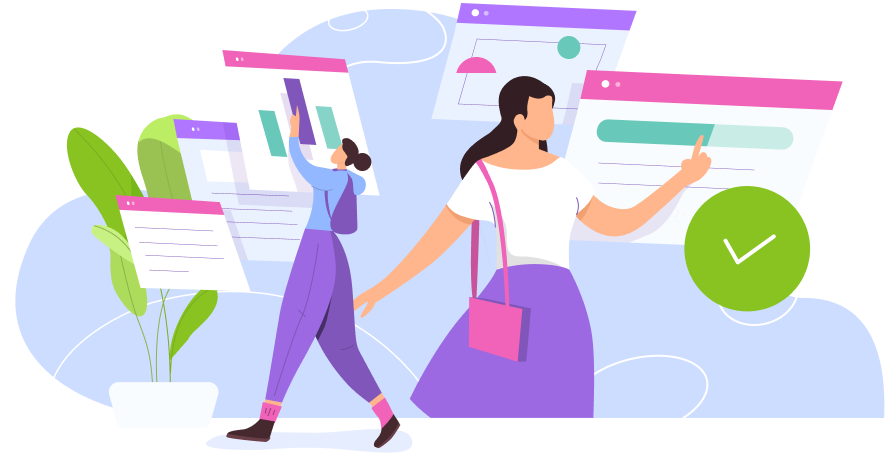
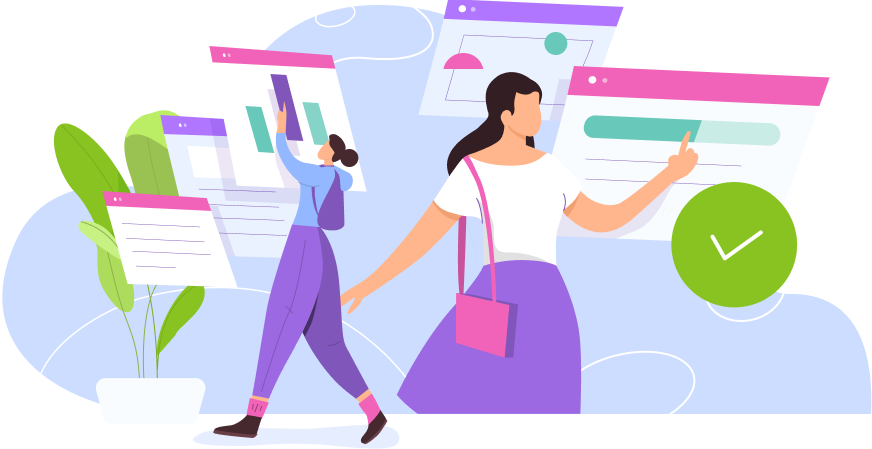
fix respon done

diff --git a/css/normalize.css b/css/normalize.css
@@ -135,9 +135,6 @@ button {
     padding-top: 161px;
     padding-bottom: 141px;
 }
-.text-data {
-    width: 60%;
-}
 /*responsive ui/ux moible max-width 768px*/
 /*to section */
 @media screen and (max-width: 768px) {
@@ -163,11 +160,7 @@ button {
 		justify-content: center;
 		align-items: center;
 	}
-	
-	.fea p.text-second {
-		width: 100%;
-		padding: 0;
-	}
+
 	div.carosoul {
 		padding: 20px 0 0 0;
 		/*flex-basis: 85%;*/
@@ -184,14 +177,18 @@ button {
     width: 41%;
     padding: 80px 0 60px 0;
 }
+.text-data {
+    width: 66%;
+}
 .image-data {
     background-image: url(../image/data.png);
 	background-repeat: no-repeat;
-	/*background-position: right bottom;*/
+	background-position: right bottom;
+	background-size: contain;
 	width: 80%;
 	height: 500px;
 	position: absolute;
-	right: -72px;
+	right: 0;
 	top: 36%;
 }
  h1.title {
@@ -225,8 +222,48 @@ p.first-text {
 	width: 25%;
 }
 /*responsive mobile section data max-width:  768px*/
-@media screen and (max-width:  768px)  {
-	.save-data {
+@media screen and (max-width:  768px){
+	div .save-data .image-data {
+		margin: auto;
+		left: 0%;
+		top: 23%;
+	}
+	.save-data .text-data .image-data {
+		width: 100%;
+		top: 76%;
+		background-size: contain;
+		left: 0;
+	}
+	p.first-text {
+		width: 100%;
+		padding: 21px 0 20px 0;
+	}
+}
+@media screen and (max-width: 992px) {
+	p.first-text {
+		width: 100%;
+		padding: 21px 0 20px 0;
+	}
+	.high-level {
+		margin-top: 200px;
+	}
+	section .fea-box {
+		padding-bottom: 0; 
+		display: flex;
+		justify-content: center;
+		align-items: center;
+	}
+	 section div.col-box:nth-child(1), div.col-box:nth-child(3) {
+		margin-left: 0;
+	}
+	.col-image img.search {
+		width: 38%;
+		right: 61%;
+	}
+}
+
+@media screen and (max-width: 1320px) {
+.save-data {
 		padding-top: 0;
 	}
 	.text-data {
@@ -240,12 +277,10 @@ p.first-text {
 		width: 100%;
 		margin-top: 20px;
 	}
-	.text-data .image-data {
-		background-image: url(../image/data.png);
-		background-repeat: no-repeat;
-		background-size: contain;
+	.save-data .image-data {
+		margin: auto;
 		left: 0%;
-		top: 57%;
+		top: 55%;
 	}
 	.save-data .text-data .image-data {
 		width: 100%;
@@ -257,10 +292,24 @@ p.first-text {
 		width: 100%;
 		padding: 21px 0 20px 0;
 	}
+	.high-level {
+		margin-top: 250px;
+	}
+	div .high-text {
+		padding: 40px 20px 0 20px;
+	}
+	div h1.titles {
+		font-size: 25px;
+	}
+		/*high level*/
+	.fea p.text-second {
+		width: 100%;
+		padding: 0;
+	}
 }
 /*end section data*/
 
-/*section high-level*/
+
 /*responsive mobile section high-level max-width:  768px*/
 @media screen and (max-width: 768px) {
 	.high-level {
@@ -335,9 +384,6 @@ p.titles-second {
 	#topnav ul li {
 	padding: 10px;
 	}	
-	/*.fea-box .col-box:nth-child(1), .fea-box .col-box:nth-child(3) {
-		margin-left: 0;
-	}*/
 	div.col-box:nth-child(1), div.col-box:nth-child(3) {
 		margin-left: 0;
 	}
@@ -542,6 +588,7 @@ p.subtitle {
     color: #4B5D68;
     padding-top: 20px;
 }
+/*screen responsive moible*/
 @media screen and (max-width:  768px) {
 	div.carosoul-box.two,div.carosoul-box.three {
 		width: 75%;
@@ -613,7 +660,7 @@ h2 {
 		cursor: pointer;
 }
 .dotter-four span:hover , span.active {
-	color: #F063B8;
+		color: #F063B8;
 }
 .play {
 		padding-top: 36px;
@@ -625,16 +672,16 @@ h2 {
 	    padding: 16px 20px 0 26px;;
 }
 .next:nth-child(1) {
-	transform: rotate(-180deg);
-	margin-right: 9px;
+		transform: rotate(-180deg);
+		margin-right: 9px;
 }
 .next:nth-child(1):hover {
-	background-image: url(../image/hover.png);
-	background-repeat: no-repeat;
-	transform: rotate(0deg);
+		background-image: url(../image/hover.png);
+		background-repeat: no-repeat;
+		transform: rotate(0deg);
 }
 /*footer*/
-/*responsive mobile max-width : 540px*/
+/*responsive mobile max-width : 768*/
 @media screen and (max-width:  768px) {
 	div.try-free {
 		display: flex;

diff --git a/index.html b/index.html
@@ -42,8 +42,8 @@
 							safely but not be afraid of being stolen by others.
 						</p>
 						<button class="btn-data">Learn more</button>
-						<div class="image-data">
-						</div>
+					</div>
+					<div class="image-data">
 					</div>
 				</div>
 			</section>
@@ -240,8 +240,8 @@
 								<span class="dot" href="" onclick="currentSlide(4)">.</span>
 							</div>
 							<div class="play">
-								<button class="next next" onclick="plusSlides(-1)"></button>
-								<button class="next previous" onclick="plusSlides(1)"></button>
+								<button class="next" onclick="plusSlides(-1)"></button>
+								<button class="next" onclick="plusSlides(1)"></button>
 							</div>
 						</div>
 					</div>
